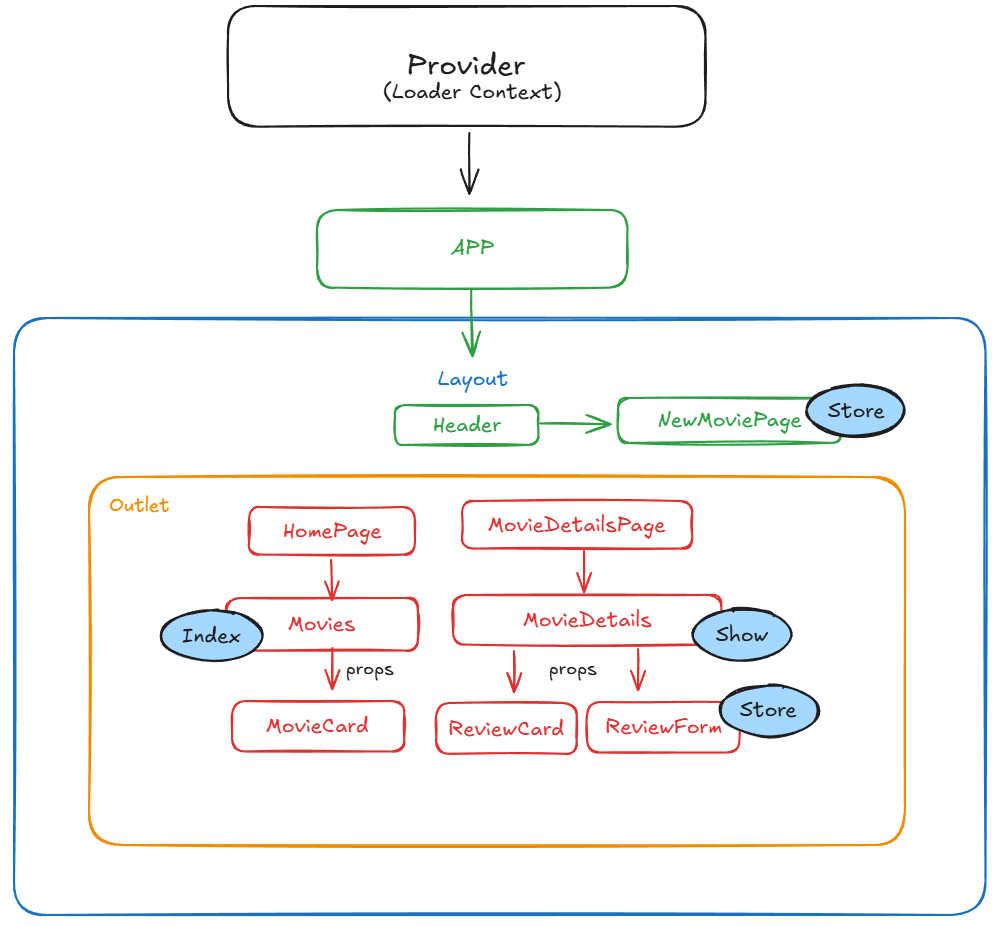
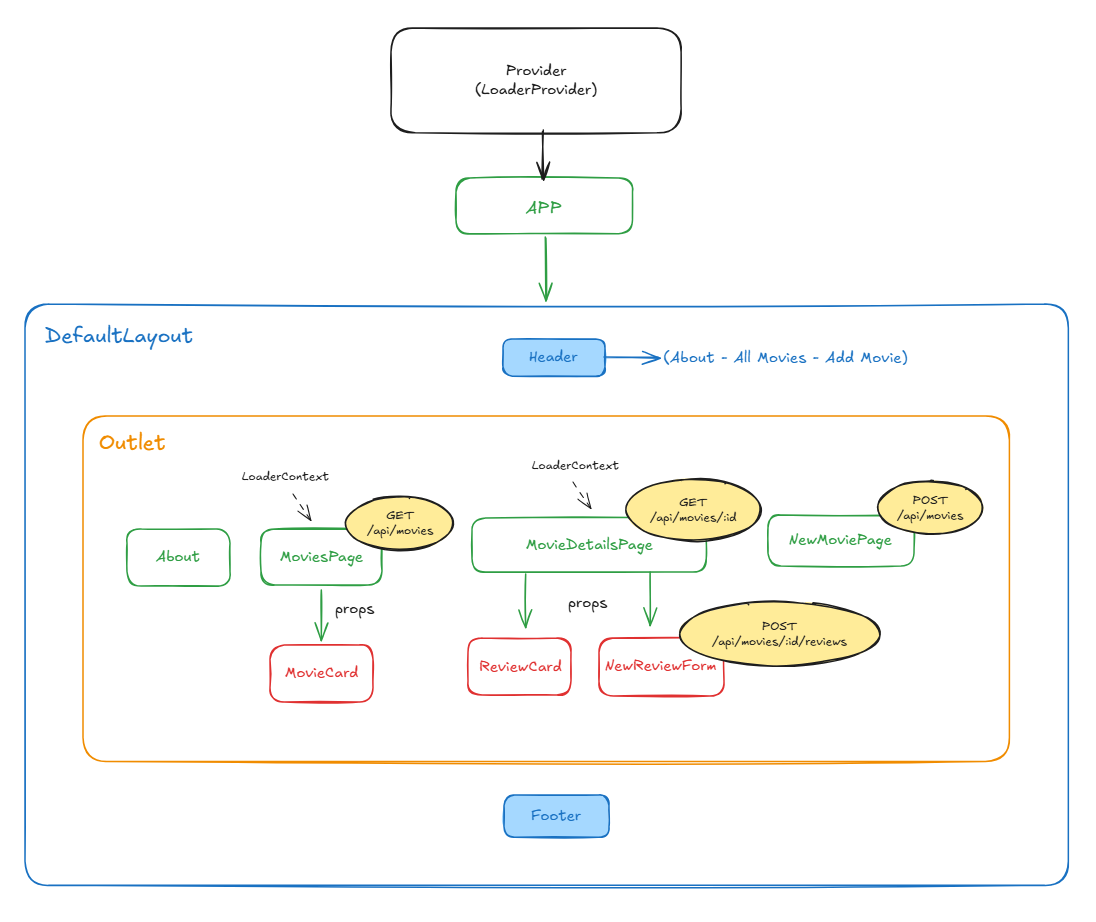
docs: aggiornato README

Changed region(s): [[0.0, 0.0, 0.995, 1.0], [0.8706, 0.8807, 0.9017, 0.9111], [0.0933, 0.8807, 0.1244, 0.9111]]

diff --git a/README.md b/README.md
@@ -1,74 +1,94 @@
-<p align="center">
-  <img src="./public/imgs/boolean-logo.png" alt="Boolean Logo" width="35">
-</p>
+<h1 align="center">🎬 Cineblox - Frontend</h1>
 
-<h1 align="center">Web App React</h1>
+**Cineblox** è una Single Page Application (SPA) full-stack sviluppata con **React**, **Express** e **MySQL** pensata come una piattaforma dedicata al mondo del cinema, dove gli utenti possono consultare film per scoprirne i dettagli, leggere/condividere recensioni e contribuire con nuovi contenuti.
 
-Frontend di una web application full-stack per la gestione e consultazione di film, sviluppato come Single Page Application con React.
+Il frontend comunica con un backend REST tramite chiamate AJAX.
 
-Backend di riferimento:  
-https://github.com/Damiana-Arangio/webapp-express.git
+Backend repository:  
+[cineblox-backend ](https://github.com/Damiana-Arangio/webapp-express)
 
 ---
 
-## Descrizione del progetto
+# 🎥 Demo
 
-L’applicazione consente di:
-- visualizzare una lista di film
-- consultare il dettaglio di un singolo film
-- leggere e inserire recensioni
-- gestire stati di caricamento e navigazione
+<video controls autoplay muted width="800">
+  <source src="./public/demo.mp4" type="video/mp4">
+</video>
 
-Il frontend comunica con un backend Express tramite chiamate AJAX ed è strutturato per favorire la riutilizzabilità dei componenti.
+> ℹ️ La demo viene avviata automaticamente senza audio per permettere l’autoplay su GitHub.  
+> Per ascoltare anche l’audio, apri direttamente il file `public/demo.mp4`.
 
----
+## Responsive Design
 
-## Funzionalità principali
+### Movies Page - Desktop
+![Movies Page](./public/imgs/Screenshot-MoviesPage-Desktop.png)
 
-- Visualizzazione elenco film
-- Pagina di dettaglio con informazioni e recensioni
-- Inserimento di nuove recensioni tramite form
-- Inserimento di nuovi film
-- Gestione del routing con React Router
-- Loader globale tramite Context
-- Pagina 404 per rotte non valide
+### Movies Page - Tablet
+![Movies Tablet](./public/imgs/Screenshot-MoviesPage-Tablet.png)
 
----
+### Movies Page - Smartphone
+![Movies Smartphone](./public/imgs/Screenshot-MoviesPage-Mobile.png)
 
-## Architettura frontend
+# Funzionalità principali
 
-- Layout condiviso
-- Componenti riutilizzabili
-- Gestione dello stato locale e globale
-- Comunicazione con API REST tramite Axios
-
----
-
-## Anteprime
-
-### Schema applicazione
-![Schema](./public/imgs/Schema-App.png)
-
-### Home Page
-![Homepage](./public/imgs/Screenshot-Movies.png)
-
-### Dettaglio film
-![MovieDetailsPage](./public/imgs/Screenshot-MovieDetailsPage.png)
-
-### Inserimento nuova recensione
-![AddReview](./public/imgs/Screenshot-Add-NewReview.png)
-
-### Inserimento nuovo film
-![NewMovie](./public/imgs/Screenshot-Add-NewMovie.png)
-
-### Pagina 404
-![NotFound](./public/imgs/Screenshot-NotFoundPage.png)
+- Consultare una pagina introduttiva dell'applicazione
+- Visualizzare una lista di film
+- Scorrere i film tramite paginazione
+- Consultare il dettaglio di un film
+- Leggere le recensioni degli utenti
+- Inserire una nuova recensione
+- Aggiungere un nuovo film con immagine
+- Navigare tra le pagine tramite navbar
+- Avviare o interrompere la musica
 
 ---
 
-## Tecnologie utilizzate
+# Implementazione frontend
 
-- React + Vite
+- Context API per gestione loader globale
+- Gestione stato locale con Hooks
+- Utilizzo di useRef per gestione audio/music player
+- Routing dinamico con React Router DOM
+- Chiamate HTTP tramite Axios
+- Validazione dati lato frontend
+- Gestione errori API e pagina 404
+- Interfaccia responsive con approccio desktop first 
+
+---
+
+# Architettura applicazione
+Lo schema seguente mostra la struttura principale dell'applicazione: il Provider per la gestione del context globale, il layout principale organizzato tramite `Outlet` per il rendering dinamico delle pagine e i principali componenti utilizzati nelle diverse sezioni dell'app.
+
+<img src="./public/imgs/Schema-App.png" alt="Schema applicazione" width="700">
+
+
+# Stack
+
+Frontend
+- React
 - React Router DOM
 - Axios
-- Bootstrap / CSS
+- Context API
+- Bootstrap
+- CSS
+
+Backend
+- Node.js
+- Express.js
+- Multer
+- express-validator
+
+Database
+- MySQL
+
+---
+
+# Setup progetto
+
+## 1. Clona il frontend
+
+```bash
+git clone https://github.com/Damiana-Arangio/webapp-react.git
+cd webapp-react
+npm install
+npm run dev